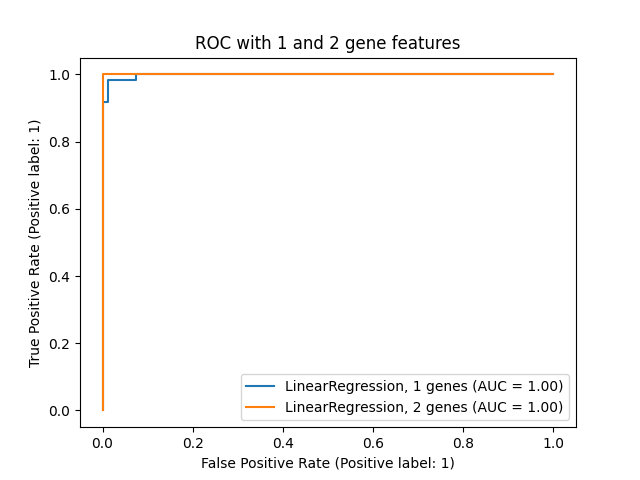
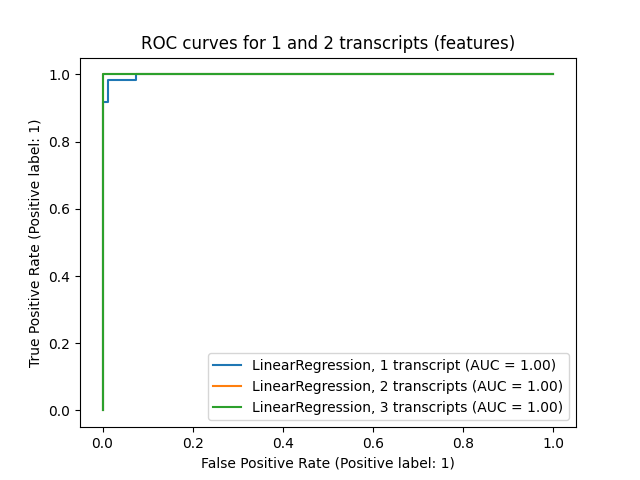
final touch ups to visualizations

Changed region(s): [[0.3125, 0.75, 0.875, 0.875], [0.1562, 0.0625, 0.8438, 0.1562]]

diff --git a/model/vis_code.py b/model/vis_code.py
@@ -5,19 +5,24 @@ from joblib import dump
 import model
 import matplotlib.pyplot as plt
 import numpy as np
+from matplotlib.ticker import MaxNLocator
 
 from scipy import stats
 
 def plot_1_2_roc():
     lr1 = model.LogisticModel('../data', 'train_set_v2.csv', 'test_set_v2.csv', feature_count=1)
     lr1.execute_all()
-    lr1_disp = metrics.plot_roc_curve(lr1.clf, lr1.X_test, lr1.y_test, name="LinearRegression, 1 genes")
+    lr1_disp = metrics.plot_roc_curve(lr1.clf, lr1.X_test, lr1.y_test, name="LinearRegression, 1 transcript")
 
     lr2 = model.LogisticModel('../data', 'train_set_v2.csv', 'test_set_v2.csv', feature_count=2)
     lr2.execute_all()
-    metrics.plot_roc_curve(lr2.clf, lr2.X_test, lr2.y_test, ax=lr1_disp.ax_, name="LinearRegression, 2 genes")
+    metrics.plot_roc_curve(lr2.clf, lr2.X_test, lr2.y_test, ax=lr1_disp.ax_, name="LinearRegression, 2 transcripts")
 
-    plt.title('ROC with 1 and 2 genes and features')
+    lr3 = model.LogisticModel('../data', 'train_set_v2.csv', 'test_set_v2.csv', feature_count=3)
+    lr3.execute_all()
+    metrics.plot_roc_curve(lr3.clf, lr3.X_test, lr3.y_test, ax=lr1_disp.ax_, name="LinearRegression, 3 transcripts")
+
+    plt.title('ROC curves for 1 and 2 transcripts (features)')
     plt.savefig('../figures/roc_one_two.png')
 
 def corr_1_20():
@@ -53,20 +58,23 @@ def pluritest_spearman(feature_size_list):
 
         spear_vals += [spearman[0]]
 
-    '''
-    plt.plot(feature_size_list, spear_vals)
-    plt.xlabel('number of gene features in model')
+    fig, ax = plt.subplots()
+    ax.xaxis.set_major_locator(MaxNLocator(integer=True))
+    plt.plot(feature_size_list, spear_vals, marker='d')
+    plt.xlabel('number of transcript features in model')
     plt.ylabel('Spearman correlation coefficient with PluriTest')
-    plt.title('Spearman correlation with PluriTest vs Feature count')
+    plt.title('Spearman correlation with PluriTest with increasing feature count')
     plt.savefig('../figures/spearman_corr_line_pluritest.png')
-    '''
 
+
+    '''
     # lr has m=20 features now
     plt.xlabel('PluriTest score')
     plt.ylabel('log-normalized StemDB score')
     plt.title("Model probabilities correlation with PluriTest")
     plt.scatter(pt_score_list, -1*np.log10([1-a for a in our_score_list]))
     plt.savefig('../figures/pluritest_correlation.png')
+    '''
 
 def feature_importance():
     lr = model.LogisticModel('../data', 'train_set_v3.csv', 'test_set_v3.csv')
@@ -123,7 +131,6 @@ def feature_importance():
 
 
 if __name__ == '__main__':
-    #plot_1_2_roc()
-    #corr_1_20()
-    #pluritest_spearman(list(range(1,21)))
+    plot_1_2_roc()
+    pluritest_spearman(list(range(1,21)))
     feature_importance()
